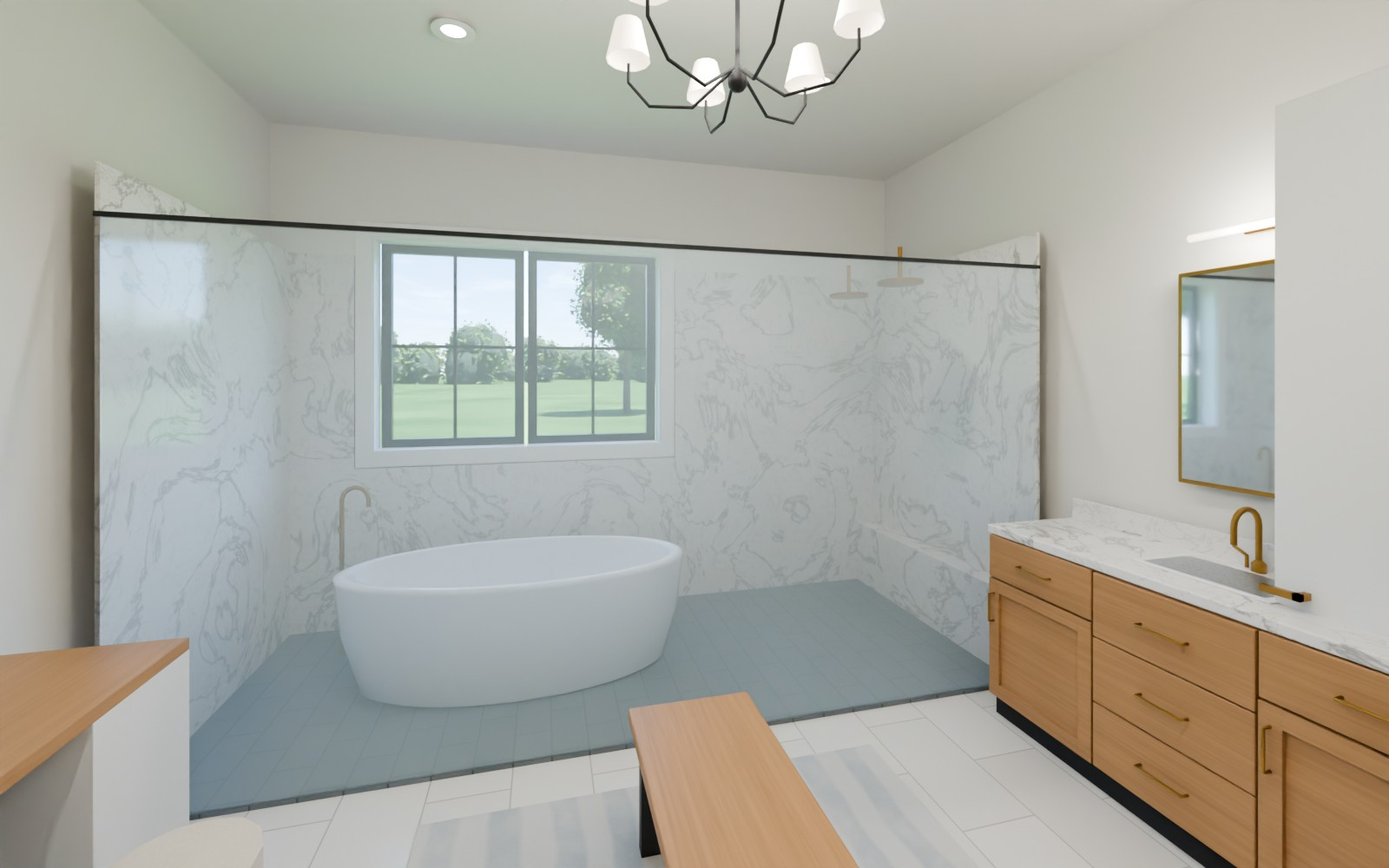
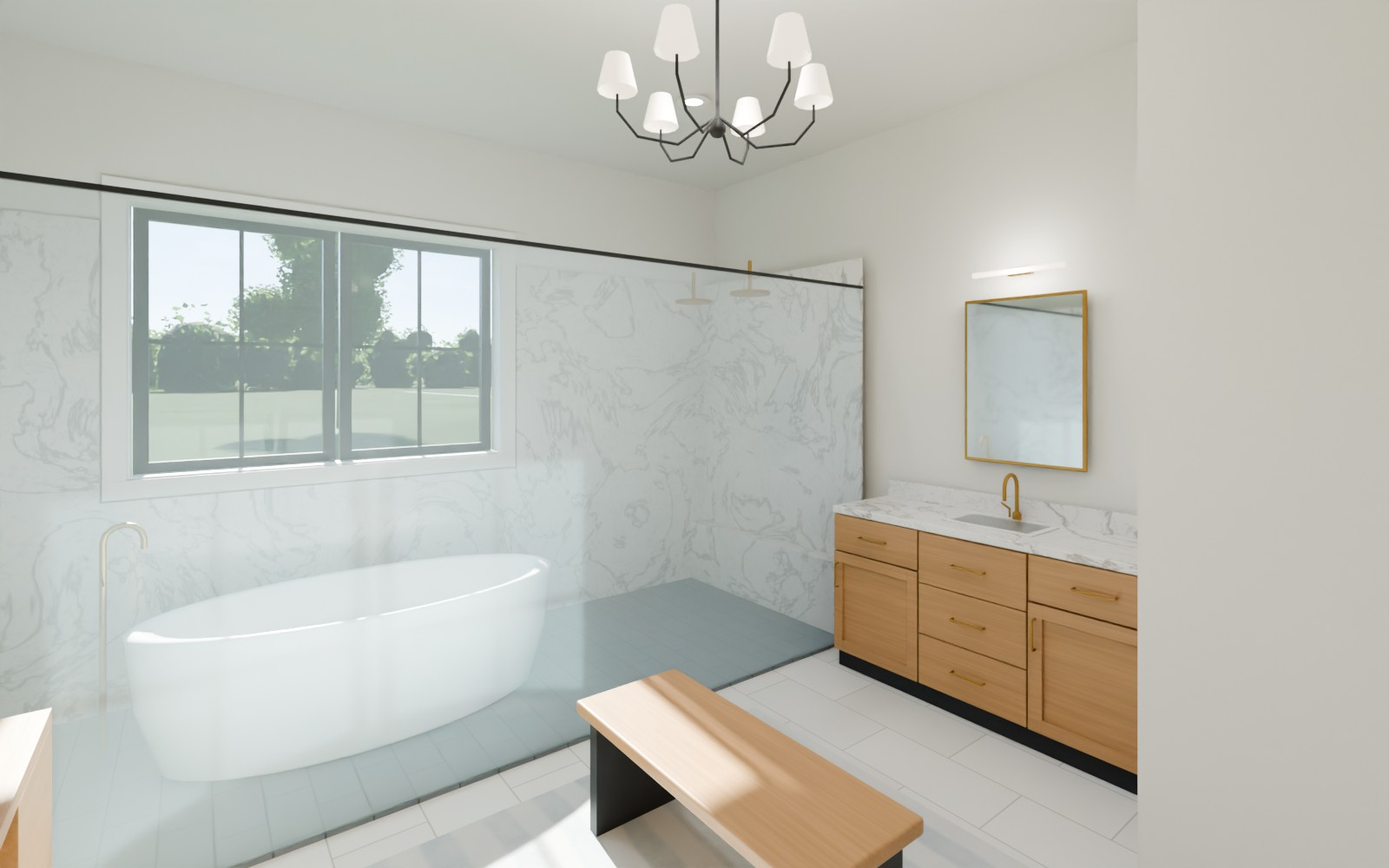
The Lookout 3500 2.0: bath
The Lookout 3500 2.0 page: a picture redone.

- Primary bath redone: the vanity in six finishes (oak, white, navy, sage, black, walnut) and the wet room's walls in five (slab marble, white subway, sage zellige, charcoal slate, limestone), each with the counter, floor tile, hardware and crown molding of choice; cased window, afternoon sun.

Claude-Session: https://claude.ai/code/session_01LcUu1yMTHs7qUW5E51HSvp

diff --git a/lookout/site.js b/lookout/site.js
@@ -1,1 +1,1 @@
-window.SJ={"name":"The Lookout 3500 2.0","slug":"the-lookout-3500-2","tag":"One-and-a-half-story plan","sub":"Four bedrooms and three and a half baths in 3,760 square feet, with the primary suite on the main level, a lookout room on the roof and a three-car garage.","stats":[["3,760","sq ft finished"],["4","bedrooms"],["3.5","baths"],["3","car garage"],["Main-level","primary suite"],["14 x 16","lookout room"]],"hero":{"day":"img/hero-day.jpg","night":""},"views":[{"id":"hero","name":"Front","kind":"ext","keys":["fas","fdc","g","gdc","lk","prf","rof","sid","trm","win"]},{"id":"yard","name":"Back yard","kind":"ext","keys":["fas","g","lk","pl","prf","pst","rof","sid","trm","win"]},{"id":"great","name":"Living room","kind":"int","keys":["bi","clg","cr","flr","fp","hwc","idc","ids","wal","win"]},{"id":"kitchen","name":"Kitchen","kind":"int","keys":["bsp","cab","ctr","flr","hwc","isl","wal","win"]},{"id":"dining","name":"Dining room","kind":"int","keys":["flr","wal","win"]},{"id":"foyer","name":"Foyer","kind":"int","keys":["cr","fd","fdc","flr","hwc","sf","sr","wal","win"]},{"id":"primary","name":"Primary bedroom","kind":"int","keys":["flr","hwc","wal","win"]},{"id":"bath","name":"Primary bath","kind":"int","keys":["btl","ctr","hwc","wal","win"]},{"id":"loft","name":"Upstairs loft","kind":"int","keys":["wal","win"]},{"id":"lookout","name":"Lookout room","kind":"int","keys":["sf","sr","wal","win"],"veil":{"when":{"lk":"0"},"keys":["sf","sr","wal","win"],"note":"Shows in this picture when the lookout room is chosen"}},{"id":"bed2","name":"Bedroom 2","kind":"int","keys":["cpt","uf","wal","win"]},{"id":"bed4","name":"Bedroom 4","kind":"int","keys":["cpt","hwc","idc","uf","wal","win"]},{"id":"lounge","name":"Lower level lounge","kind":"int","keys":["b","cab","ctr","hwc","isl","wal"],"veil":{"when":{"b":"u"},"keys":["cab","ctr","hwc","isl","wal"],"note":"Shows in this picture once the lower level is finished"}},{"id":"bar","name":"Lower level bar","kind":"int","keys":["b","ctr","hwc","isl","wal"],"veil":{"when":{"b":"u"},"keys":["ctr","hwc","isl","wal"],"note":"Shows in this picture once the lower level is finished"}}],"baths":[],"bathkeys":[],"opts":[{"key":"lk","name":"Lookout room","cat":"ext","ch":[{"id":"1","name":"Lookout room on the roof (as drawn)"},{"id":"0","name":"No lookout"}],"note":"The lookout room sits on the roof, 14 x 16 ft with windows all around, reached by its own stair."},{"key":"g","name":"Garage entry","cat":"ext","ch":[{"id":"f","name":"Front entry (as drawn)"},{"id":"s","name":"Side entry, with a motor court"}],"note":"Side entry: the garage wing is re-proportioned and its doors face a motor court at the side; windows take their place on the front."},{"key":"pl","name":"Pool","cat":"ext","ch":[{"id":"n","name":"No pool (as drawn)"},{"id":"1","name":"Lap pool, 10 x 45 ft"},{"id":"2","name":"Plunge pool with a raised spa"},{"id":"3","name":"Courtyard pool with a shade pavilion"}],"note":"The pools sit behind the covered deck, on a paved terrace one step above the lawn."},{"key":"sid","name":"Siding colour","cat":"ext","ch":[{"id":"white","name":"Chantilly White","css":"#F1EFE8"},{"id":"cream","name":"Warm Cream","css":"#E6DCC6"},{"id":"greige","name":"Pebble Greige","css":"#B9B2A3"},{"id":"sage","name":"Sage","css":"#8E9A86"},{"id":"blue","name":"Harbor Blue","css":"#5E768A"},{"id":"navy","name":"Midnight Navy","css":"#28364A"},{"id":"iron","name":"Iron Gray","css":"#45484A"},{"id":"black","name":"Tricorn Black","css":"#222325"}]},{"key":"trm","name":"Trim and corner boards","cat":"ext","ch":[{"id":"white","name":"White","css":"#F4F2EC"},{"id":"cream","name":"Cream","css":"#E9E1CF"},{"id":"black","name":"Black","css":"#1E1F21"},{"id":"bronze","name":"Dark Bronze","css":"#3A322B"}]},{"key":"rof","name":"Roof shingles","cat":"ext","ch":[{"id":"char","name":"Charcoal","css":"linear-gradient(180deg,#33353A 0 50%,#45474C 50%)"},{"id":"onyx","name":"Onyx Black","css":"linear-gradient(180deg,#1D1E21 0 50%,#2A2B2F 50%)"},{"id":"wood","name":"Weathered Wood","css":"linear-gradient(180deg,#5E554B 0 50%,#7A6F62 50%)"},{"id":"slate","name":"Slate Gray","css":"linear-gradient(180deg,#4D5560 0 50%,#69717C 50%)"},{"id":"brown","name":"Barkwood","css":"linear-gradient(180deg,#41342B 0 50%,#5B4A3D 50%)"}]},{"key":"prf","name":"Porch, lookout and accent roofs","cat":"ext","ch":[{"id":"metal","name":"Black standing seam","css":"repeating-linear-gradient(90deg,#1b1c1f 0 7px,#34363a 7px 9px)"},{"id":"copper","name":"Copper standing seam","css":"repeating-linear-gradient(90deg,#9A5A34 0 7px,#c07c4c 7px 9px)"},{"id":"match","name":"Shingles to match","css":"repeating-linear-gradient(0deg,#2a2b2f 0 5px,#1d1e21 5px 10px)"}]},{"key":"fas","name":"Gutters and downspouts","cat":"ext","ch":[{"id":"white","name":"White","css":"#F2F0EA"},{"id":"black","name":"Black","css":"#1B1C1E"},{"id":"bronze","name":"Dark Bronze","css":"#3A322B"}]},{"key":"win","name":"Window frames","cat":"ext","ch":[{"id":"black","name":"Black","css":"#18191B"},{"id":"white","name":"White","css":"#F0EEE8"},{"id":"bronze","name":"Bronze","css":"#3B3129"},{"id":"clay","name":"Clay","css":"#A89F8E"}]},{"key":"fd","name":"Front door","cat":"ext","ch":[{"id":"g","name":"Double doors, glass over a panel"},{"id":"s","name":"Steel-look glass double doors"},{"id":"c","name":"Craftsman door with sidelights"},{"id":"p","name":"Panelled double doors"}],"note":"Every design comes with a transom over the door; its colour is the next choice."},{"key":"fdc","name":"Front door colour","cat":"ext","ch":[{"id":"wood","name":"Stained Walnut","css":"linear-gradient(135deg,#6A4226,#4A2C18)"},{"id":"black","name":"Black","css":"#161719"},{"id":"navy","name":"Navy","css":"#22324A"},{"id":"red","name":"Barn Red","css":"#6E1F1B"},{"id":"teal","name":"Deep Teal","css":"#1F4A4C"},{"id":"sage","name":"Sage","css":"#7C8A74"},{"id":"white","name":"White","css":"#F0EEE8"}]},{"key":"gdc","name":"Garage door colour","cat":"ext","ch":[{"id":"white","name":"White","css":"#EFEDE7"},{"id":"black","name":"Black","css":"#18191B"},{"id":"iron","name":"Iron Gray","css":"#4A4C4E"},{"id":"bronze","name":"Bronze","css":"#3B3129"},{"id":"wood","name":"Walnut","css":"linear-gradient(135deg,#6A4226,#4A2C18)"}]},{"key":"pst","name":"Porch posts and beams","cat":"ext","ch":[{"id":"cedar","name":"Stained cedar","css":"linear-gradient(135deg,#96663A,#774E28)"},{"id":"white","name":"White","css":"#EFEDE7"},{"id":"black","name":"Black","css":"#1F2022"}]},{"key":"b","name":"Lower level","cat":"int","ch":[{"id":"u","name":"Unfinished (as drawn)"},{"id":"f","name":"Finished"}]},{"key":"clg","name":"Living room ceiling","cat":"int","ch":[{"id":"c","name":"Coffered, painted"},{"id":"o","name":"Coffered, oak beams"},{"id":"b","name":"Timber beams"},{"id":"t","name":"Tray ceiling"}],"note":"Coffers: nine panels framed by beams, centred on the fireplace, with a ring chandelier in the middle."},{"key":"cr","name":"Crown molding","cat":"int","ch":[{"id":"n","name":"None"},{"id":"c","name":"Classic crown, 5 1/4 in."},{"id":"f","name":"Craftsman, flat with a cap"}],"note":"Runs on every wall that meets a flat ceiling: the main level, upstairs, the lookout room and the loft over the closet."},{"key":"fp","name":"Fireplace","cat":"int","ch":[{"id":"stone","name":"Stacked stone (as drawn)","css":"repeating-linear-gradient(0deg,#8f887c 0 4px,#6f695f 4px 5px)"},{"id":"white","name":"White stacked stone","css":"repeating-linear-gradient(0deg,#E9E6DF 0 4px,#c4c0b7 4px 5px)"},{"id":"brick","name":"Red brick","css":"repeating-linear-gradient(0deg,#8E4A36 0 5px,#B9B2A6 5px 6px)"},{"id":"wbrick","name":"White painted brick","css":"repeating-linear-gradient(0deg,#EDEAE3 0 5px,#cfcbc2 5px 6px)"},{"id":"slate","name":"Charcoal slate tile","css":"repeating-linear-gradient(90deg,#3B3D40 0 12px,#1F2022 12px 13px)"}]},{"key":"bi","name":"Fireplace built-ins","cat":"int","ch":[{"id":"c","name":"Cabinets with oak tops (as drawn)"},{"id":"s","name":"Cabinets and shelves to the ceiling"},{"id":"n","name":"None"}],"note":"The built-ins stand on both sides of the fireplace."},{"key":"ids","name":"Interior door style","cat":"int","ch":[{"id":"s","name":"Two-panel Shaker"},{"id":"f","name":"Five-panel"},{"id":"c","name":"Craftsman, three-panel"}],"note":"8 ft doors on the main level, 6 ft 8 in. upstairs; every opening is cased, with a cap over the head."},{"key":"idc","name":"Interior doors","cat":"int","ch":[{"id":"white","name":"White","css":"#F2F0EA"},{"id":"black","name":"Black","css":"#1E1F21"},{"id":"grey","name":"Gray","css":"#8F9190"},{"id":"oak","name":"Natural oak","css":"linear-gradient(135deg,#B9905E,#A67C4C)"}]},{"key":"sf","name":"Stair treads and handrails","cat":"int","ch":[{"id":"o","name":"Natural oak (as drawn)","css":"linear-gradient(135deg,#B9905E,#A67C4C)"},{"id":"d","name":"Walnut","css":"linear-gradient(135deg,#6A4A32,#573B27)"},{"id":"k","name":"Ebony","css":"linear-gradient(135deg,#30261F,#211A15)"},{"id":"w","name":"Whitewashed oak","css":"linear-gradient(135deg,#D9CDB8,#C9BCA4)"}]},{"key":"sr","name":"Stair balusters","cat":"int","ch":[{"id":"k","name":"Black iron","css":"#141414"},{"id":"w","name":"White","css":"#EFEDE7"},{"id":"b","name":"Satin brass","css":"#B08A4A"}]},{"key":"flr","name":"Hardwood flooring","cat":"int","ch":[{"id":"oak","name":"Natural Oak Plank","css":"repeating-linear-gradient(90deg,#B08F68 0 9px,#9C7B55 9px 18px)"},{"id":"honey","name":"Honey Oak","css":"repeating-linear-gradient(90deg,#B8834A 0 9px,#A2703C 9px 18px)"},{"id":"grey","name":"Driftwood Gray","css":"repeating-linear-gradient(90deg,#9A9288 0 9px,#857D73 9px 18px)"},{"id":"walnut","name":"Walnut","css":"repeating-linear-gradient(90deg,#6A4A32 0 9px,#573B27 9px 18px)"},{"id":"white","name":"Whitewashed","css":"repeating-linear-gradient(90deg,#CFC3B0 0 9px,#BFB29E 9px 18px)"}]},{"key":"uf","name":"Bedroom flooring","cat":"int","ch":[{"id":"c","name":"Carpet (as shown)","css":"repeating-linear-gradient(45deg,#C9C0AE 0 3px,#BDB4A2 3px 6px)"},{"id":"oak","name":"Natural Oak Plank","css":"repeating-linear-gradient(90deg,#B08F68 0 9px,#9C7B55 9px 18px)"},{"id":"honey","name":"Honey Oak","css":"repeating-linear-gradient(90deg,#B8834A 0 9px,#A2703C 9px 18px)"},{"id":"grey","name":"Driftwood Gray","css":"repeating-linear-gradient(90deg,#9A9288 0 9px,#857D73 9px 18px)"},{"id":"walnut","name":"Walnut","css":"repeating-linear-gradient(90deg,#6A4A32 0 9px,#573B27 9px 18px)"},{"id":"white","name":"Whitewashed","css":"repeating-linear-gradient(90deg,#CFC3B0 0 9px,#BFB29E 9px 18px)"}]},{"key":"cpt","name":"Carpet","cat":"int","ch":[{"id":"oat","name":"Oatmeal","css":"#C9C0AE"},{"id":"grey","name":"Silver","css":"#B5B3AE"},{"id":"taupe","name":"Taupe","css":"#A39685"}],"only":{"uf":"c"}},{"key":"wal","name":"Wall paint","cat":"int","ch":[{"id":"alab","name":"Alabaster","css":"#EDEAE0"},{"id":"grey","name":"Agreeable Gray","css":"#D1CBC1"},{"id":"greige","name":"Accessible Beige","css":"#D1C7B8"},{"id":"blue","name":"Sea Salt","css":"#CDD2CA"},{"id":"white","name":"Pure White","css":"#F2F0EB"}]},{"key":"cab","name":"Kitchen cabinets","cat":"int","ch":[{"id":"white","name":"White Shaker","css":"#EFEDE7"},{"id":"grey","name":"Dove Gray","css":"#A9ABA8"},{"id":"sage","name":"Sage","css":"#8A967F"},{"id":"navy","name":"Navy","css":"#27364B"},{"id":"black","name":"Black","css":"#1F2022"},{"id":"oak","name":"Natural Oak","css":"linear-gradient(135deg,#B9905E,#A67C4C)"}]},{"key":"isl","name":"Island and range hood","cat":"int","ch":[{"id":"navy","name":"Navy","css":"#27364B"},{"id":"white","name":"White","css":"#EFEDE7"},{"id":"oak","name":"Natural Oak","css":"linear-gradient(135deg,#B9905E,#A67C4C)"},{"id":"black","name":"Black","css":"#1F2022"},{"id":"sage","name":"Sage","css":"#8A967F"}]},{"key":"ctr","name":"Countertops","cat":"int","ch":[{"id":"white","name":"White Quartz","css":"#EEEBE4"},{"id":"marble","name":"Marble-look Quartz","css":"linear-gradient(120deg,#ECE9E3 0 40%,#b9b6ae 44%,#ECE9E3 48% 70%,#c9c6be 74%,#ECE9E3 78%)"},{"id":"black","name":"Black Granite","css":"linear-gradient(120deg,#17181A 0 55%,#4a4a48 60%,#17181A 65%)"},{"id":"grey","name":"Concrete Gray","css":"#9A9894"}]},{"key":"bsp","name":"Backsplash","cat":"int","ch":[{"id":"slab","name":"Marble slab","css":"linear-gradient(120deg,#ECE9E3 0 40%,#b9b6ae 44%,#ECE9E3 48% 70%,#c9c6be 74%,#ECE9E3 78%)"},{"id":"subway","name":"White Subway","css":"repeating-linear-gradient(0deg,#F0EEE8 0 8px,#cfccc4 8px 9px)"},{"id":"green","name":"Sage Zellige","css":"repeating-linear-gradient(0deg,#8FA08A 0 8px,#6f806a 8px 9px)"},{"id":"grey","name":"Gray Subway","css":"repeating-linear-gradient(0deg,#B4B6B4 0 8px,#8f918f 8px 9px)"},{"id":"black","name":"Black Subway","css":"repeating-linear-gradient(0deg,#232426 0 8px,#6A6A68 8px 9px)"}]},{"key":"btl","name":"Bath floor tile","cat":"int","ch":[{"id":"w","name":"White porcelain","css":"repeating-linear-gradient(90deg,#EDEBE6 0 12px,#B9B6AE 12px 13px)"},{"id":"g","name":"Warm gray","css":"repeating-linear-gradient(90deg,#B9B2A6 0 12px,#8C867B 12px 13px)"},{"id":"m","name":"Marble look","css":"linear-gradient(120deg,#ECEAE6 0 40%,#c4c1bb 46%,#ECEAE6 52%)"},{"id":"c","name":"Charcoal slate","css":"repeating-linear-gradient(90deg,#4A4C4F 0 12px,#2C2D2F 12px 13px)"}]},{"key":"hwc","name":"Hardware and faucets","cat":"int","ch":[{"id":"brass","name":"Satin Brass","css":"#B08A4A"},{"id":"black","name":"Matte Black","css":"#101011"},{"id":"nickel","name":"Satin Nickel","css":"#9A9A98"}]}],"defaults":{"sid":"white","trm":"white","fas":"white","win":"black","fdc":"wood","gdc":"white","rof":"char","prf":"metal","lk":"1","g":"f","b":"u","pl":"n","fd":"g","pst":"cedar","clg":"c","cr":"n","fp":"stone","bi":"c","sf":"o","sr":"k","idc":"white","ids":"s","lof":"o","hwc":"brass","wal":"alab","cab":"white","isl":"navy","ctr":"marble","bsp":"slab","vcab":"oak","shw":"slab","btl":"w","flr":"oak","cpt":"oat","uf":"c"},"gallery":[],"looks":[{"cat":"ext","name":"Modern farmhouse (as drawn)","set":{}},{"cat":"ext","name":"Midnight and copper","set":{"sid":"navy","prf":"copper","gdc":"wood","rof":"onyx"}},{"cat":"ext","name":"Sage cottage","set":{"sid":"sage","trm":"cream","fas":"bronze","win":"white","rof":"wood","fdc":"navy","fd":"c"}},{"cat":"ext","name":"Charcoal modern","set":{"sid":"iron","trm":"black","fas":"black","rof":"onyx","gdc":"black","fdc":"black","fd":"s"}},{"cat":"ext","name":"Coastal blue","set":{"sid":"blue","win":"white","rof":"slate","fdc":"navy"}},{"cat":"ext","name":"Warm greige","set":{"sid":"greige","trm":"cream","fas":"bronze","win":"bronze","rof":"brown","gdc":"bronze","fd":"p"}},{"cat":"ext","name":"Black barn","set":{"sid":"black","trm":"black","fas":"black","gdc":"wood","prf":"copper","fd":"p"}},{"cat":"int","name":"Light and warm (as shown)","set":{}},{"cat":"int","name":"Warm oak","set":{"isl":"oak","ctr":"marble","flr":"honey","wal":"greige","clg":"o","cr":"f","ids":"c"}},{"cat":"int","name":"Deep and moody","set":{"cab":"navy","bsp":"grey","flr":"walnut","wal":"grey","idc":"black","clg":"b","cr":"c"}},{"cat":"int","name":"Scandinavian","set":{"isl":"white","flr":"white","wal":"white","hwc":"black","clg":"t","ids":"f"}},{"cat":"int","name":"Sage kitchen","set":{"cab":"sage","isl":"oak","bsp":"green"}},{"cat":"int","name":"Black and white","set":{"cab":"black","isl":"white","ctr":"marble","flr":"grey","wal":"white","hwc":"nickel","idc":"black","ids":"c","cr":"c"}},{"cat":"int","name":"Everything added","set":{"cr":"c","clg":"o","bi":"s","ids":"c","b":"f"}}],"plan_lead":"Each level seen from straight above, with everything over it taken away. Furniture is illustrative.","plans":[{"id":"main_f","name":"Main level","note":"2,144 sq ft: living, dining and kitchen in the core, the primary suite in its own wing, a three-car garage","svg":"<img src=\"img/plan-main_f.jpg\" alt=\"Main level, seen from above with the levels over it taken away\" style=\"width:100%;height:auto;display:block;border-radius:10px\">"},{"id":"main_s","name":"Main level, side-entry garage","note":"The same rooms; the garage wing is re-proportioned and entered from a motor court at the side","svg":"<img src=\"img/plan-main_s.jpg\" alt=\"Main level, side-entry garage, seen from above with the levels over it taken away\" style=\"width:100%;height:auto;display:block;border-radius:10px\">"},{"id":"upper","name":"Upstairs","note":"1,224 sq ft: three bedrooms, two baths, the loft and a laundry; the office loft sits over the primary closet","svg":"<img src=\"img/plan-upper.jpg\" alt=\"Upstairs, seen from above with the levels over it taken away\" style=\"width:100%;height:auto;display:block;border-radius:10px\">"},{"id":"look","name":"Lookout","note":"224 sq ft: the lookout room on the roof, windows on all four sides","svg":"<img src=\"img/plan-look.jpg\" alt=\"Lookout, seen from above with the levels over it taken away\" style=\"width:100%;height:auto;display:block;border-radius:10px\">"},{"id":"bsmt_u","name":"Lower level","note":"Unfinished, as drawn: a safe room, mechanical space and rough-ins for a bath and a wet bar","svg":"<img src=\"img/plan-bsmt_u.jpg\" alt=\"Lower level, seen from above with the levels over it taken away\" style=\"width:100%;height:auto;display:block;border-radius:10px\">"},{"id":"bsmt_f","name":"Lower level, finished","note":"Lounge, bar, gym, bath and sauna, with the safe room, storage and mechanical space","svg":"<img src=\"img/plan-bsmt_f.jpg\" alt=\"Lower level, finished, seen from above with the levels over it taken away\" style=\"width:100%;height:auto;display:block;border-radius:10px\">"}],"lot":null,"specs":[{"h":"The home","items":["3,760 sq ft finished: 2,144 on the main level, 1,224 upstairs, a 168 sq ft office loft and the 224 sq ft lookout room","Four bedrooms and three and a half baths; the primary suite is on the main level in its own wing","The primary suite: a 20 x 20 bedroom with a door to the covered deck, a spa bath and a walk-in closet, about 800 sq ft in all","Three-car garage in a wing of its own, front entry or side entry","Core 34 x 36 ft, two stories; the garage wing 32 x 24 ft and the primary wing 20 x 46 ft are one story"]},{"h":"Rooms","items":["Main level: foyer, dining room, living room with a fireplace and a 12 ft slider to the covered deck, kitchen with a prep kitchen and pantry, mudroom, powder room, laundry","Upstairs: three bedrooms, two baths, a loft, a second laundry","An office loft over the primary closet, reached by its own spiral stair","The lookout room: 14 x 16 ft on the roof, windows on all four sides"]},{"h":"Heights and roof","items":["10 ft ceilings on the main level","Gable roofs with standing-seam accents over the porch, the lookout and the garage doors","Covered 16 x 14 ft deck off the living room; covered front porch on timber posts"]},{"h":"Inside finish","items":["Living room ceiling: nine coffers centred on the fireplace with a ring chandelier, painted or in oak; timber beams or a tray ceiling instead","Doors: 8 ft on the main level and 6 ft 8 in. upstairs, in three panel styles, every opening cased with a cap over the head","Crown molding as a choice on the main and upper levels, classic or craftsman","Front door in four designs under a transom: glass over a panel, steel-look glass, craftsman with sidelights, or panelled","Baths: vanity cabinets and shower walls chosen apart from the kitchen","The loft over the primary closet as a home office, a library or a retreat"]},{"h":"Outside","items":["Board-and-batten siding with trim boards at corners and openings","Black-framed windows with grids","A full basement under the core"]}],"foot":["The pictures and the design studio on this page are computer renderings of a 3D model of the plan. Furniture, planting and the land around the house are illustrative; the plan is not drawn on a particular lot.","Finishes offered in the design studio are examples for planning, not a builder's price list. A builder's plan set and contract govern."],"tour":null,"model3d":{"src":"3d/","poster":"img/hero-day.jpg"}};
+window.SJ={"name":"The Lookout 3500 2.0","slug":"the-lookout-3500-2","tag":"One-and-a-half-story plan","sub":"Four bedrooms and three and a half baths in 3,760 square feet, with the primary suite on the main level, a lookout room on the roof and a three-car garage.","stats":[["3,760","sq ft finished"],["4","bedrooms"],["3.5","baths"],["3","car garage"],["Main-level","primary suite"],["14 x 16","lookout room"]],"hero":{"day":"img/hero-day.jpg","night":""},"views":[{"id":"hero","name":"Front","kind":"ext","keys":["fas","fdc","g","gdc","lk","prf","rof","sid","trm","win"]},{"id":"yard","name":"Back yard","kind":"ext","keys":["fas","g","lk","pl","prf","pst","rof","sid","trm","win"]},{"id":"great","name":"Living room","kind":"int","keys":["bi","clg","cr","flr","fp","hwc","idc","ids","wal","win"]},{"id":"kitchen","name":"Kitchen","kind":"int","keys":["bsp","cab","ctr","flr","hwc","isl","wal","win"]},{"id":"dining","name":"Dining room","kind":"int","keys":["flr","wal","win"]},{"id":"foyer","name":"Foyer","kind":"int","keys":["cr","fd","fdc","flr","hwc","sf","sr","wal","win"]},{"id":"primary","name":"Primary bedroom","kind":"int","keys":["flr","hwc","wal","win"]},{"id":"bath","name":"Primary bath","kind":"int","keys":["btl","cr","ctr","hwc","shw","vcab","wal","win"]},{"id":"loft","name":"Upstairs loft","kind":"int","keys":["wal","win"]},{"id":"lookout","name":"Lookout room","kind":"int","keys":["sf","sr","wal","win"],"veil":{"when":{"lk":"0"},"keys":["sf","sr","wal","win"],"note":"Shows in this picture when the lookout room is chosen"}},{"id":"bed2","name":"Bedroom 2","kind":"int","keys":["cpt","uf","wal","win"]},{"id":"bed4","name":"Bedroom 4","kind":"int","keys":["cpt","hwc","idc","uf","wal","win"]},{"id":"lounge","name":"Lower level lounge","kind":"int","keys":["b","cab","ctr","hwc","isl","wal"],"veil":{"when":{"b":"u"},"keys":["cab","ctr","hwc","isl","wal"],"note":"Shows in this picture once the lower level is finished"}},{"id":"bar","name":"Lower level bar","kind":"int","keys":["b","ctr","hwc","isl","wal"],"veil":{"when":{"b":"u"},"keys":["ctr","hwc","isl","wal"],"note":"Shows in this picture once the lower level is finished"}}],"baths":[],"bathkeys":[],"opts":[{"key":"lk","name":"Lookout room","cat":"ext","ch":[{"id":"1","name":"Lookout room on the roof (as drawn)"},{"id":"0","name":"No lookout"}],"note":"The lookout room sits on the roof, 14 x 16 ft with windows all around, reached by its own stair."},{"key":"g","name":"Garage entry","cat":"ext","ch":[{"id":"f","name":"Front entry (as drawn)"},{"id":"s","name":"Side entry, with a motor court"}],"note":"Side entry: the garage wing is re-proportioned and its doors face a motor court at the side; windows take their place on the front."},{"key":"pl","name":"Pool","cat":"ext","ch":[{"id":"n","name":"No pool (as drawn)"},{"id":"1","name":"Lap pool, 10 x 45 ft"},{"id":"2","name":"Plunge pool with a raised spa"},{"id":"3","name":"Courtyard pool with a shade pavilion"}],"note":"The pools sit behind the covered deck, on a paved terrace one step above the lawn."},{"key":"sid","name":"Siding colour","cat":"ext","ch":[{"id":"white","name":"Chantilly White","css":"#F1EFE8"},{"id":"cream","name":"Warm Cream","css":"#E6DCC6"},{"id":"greige","name":"Pebble Greige","css":"#B9B2A3"},{"id":"sage","name":"Sage","css":"#8E9A86"},{"id":"blue","name":"Harbor Blue","css":"#5E768A"},{"id":"navy","name":"Midnight Navy","css":"#28364A"},{"id":"iron","name":"Iron Gray","css":"#45484A"},{"id":"black","name":"Tricorn Black","css":"#222325"}]},{"key":"trm","name":"Trim and corner boards","cat":"ext","ch":[{"id":"white","name":"White","css":"#F4F2EC"},{"id":"cream","name":"Cream","css":"#E9E1CF"},{"id":"black","name":"Black","css":"#1E1F21"},{"id":"bronze","name":"Dark Bronze","css":"#3A322B"}]},{"key":"rof","name":"Roof shingles","cat":"ext","ch":[{"id":"char","name":"Charcoal","css":"linear-gradient(180deg,#33353A 0 50%,#45474C 50%)"},{"id":"onyx","name":"Onyx Black","css":"linear-gradient(180deg,#1D1E21 0 50%,#2A2B2F 50%)"},{"id":"wood","name":"Weathered Wood","css":"linear-gradient(180deg,#5E554B 0 50%,#7A6F62 50%)"},{"id":"slate","name":"Slate Gray","css":"linear-gradient(180deg,#4D5560 0 50%,#69717C 50%)"},{"id":"brown","name":"Barkwood","css":"linear-gradient(180deg,#41342B 0 50%,#5B4A3D 50%)"}]},{"key":"prf","name":"Porch, lookout and accent roofs","cat":"ext","ch":[{"id":"metal","name":"Black standing seam","css":"repeating-linear-gradient(90deg,#1b1c1f 0 7px,#34363a 7px 9px)"},{"id":"copper","name":"Copper standing seam","css":"repeating-linear-gradient(90deg,#9A5A34 0 7px,#c07c4c 7px 9px)"},{"id":"match","name":"Shingles to match","css":"repeating-linear-gradient(0deg,#2a2b2f 0 5px,#1d1e21 5px 10px)"}]},{"key":"fas","name":"Gutters and downspouts","cat":"ext","ch":[{"id":"white","name":"White","css":"#F2F0EA"},{"id":"black","name":"Black","css":"#1B1C1E"},{"id":"bronze","name":"Dark Bronze","css":"#3A322B"}]},{"key":"win","name":"Window frames","cat":"ext","ch":[{"id":"black","name":"Black","css":"#18191B"},{"id":"white","name":"White","css":"#F0EEE8"},{"id":"bronze","name":"Bronze","css":"#3B3129"},{"id":"clay","name":"Clay","css":"#A89F8E"}]},{"key":"fd","name":"Front door","cat":"ext","ch":[{"id":"g","name":"Double doors, glass over a panel"},{"id":"s","name":"Steel-look glass double doors"},{"id":"c","name":"Craftsman door with sidelights"},{"id":"p","name":"Panelled double doors"}],"note":"Every design comes with a transom over the door; its colour is the next choice."},{"key":"fdc","name":"Front door colour","cat":"ext","ch":[{"id":"wood","name":"Stained Walnut","css":"linear-gradient(135deg,#6A4226,#4A2C18)"},{"id":"black","name":"Black","css":"#161719"},{"id":"navy","name":"Navy","css":"#22324A"},{"id":"red","name":"Barn Red","css":"#6E1F1B"},{"id":"teal","name":"Deep Teal","css":"#1F4A4C"},{"id":"sage","name":"Sage","css":"#7C8A74"},{"id":"white","name":"White","css":"#F0EEE8"}]},{"key":"gdc","name":"Garage door colour","cat":"ext","ch":[{"id":"white","name":"White","css":"#EFEDE7"},{"id":"black","name":"Black","css":"#18191B"},{"id":"iron","name":"Iron Gray","css":"#4A4C4E"},{"id":"bronze","name":"Bronze","css":"#3B3129"},{"id":"wood","name":"Walnut","css":"linear-gradient(135deg,#6A4226,#4A2C18)"}]},{"key":"pst","name":"Porch posts and beams","cat":"ext","ch":[{"id":"cedar","name":"Stained cedar","css":"linear-gradient(135deg,#96663A,#774E28)"},{"id":"white","name":"White","css":"#EFEDE7"},{"id":"black","name":"Black","css":"#1F2022"}]},{"key":"b","name":"Lower level","cat":"int","ch":[{"id":"u","name":"Unfinished (as drawn)"},{"id":"f","name":"Finished"}]},{"key":"clg","name":"Living room ceiling","cat":"int","ch":[{"id":"c","name":"Coffered, painted"},{"id":"o","name":"Coffered, oak beams"},{"id":"b","name":"Timber beams"},{"id":"t","name":"Tray ceiling"}],"note":"Coffers: nine panels framed by beams, centred on the fireplace, with a ring chandelier in the middle."},{"key":"cr","name":"Crown molding","cat":"int","ch":[{"id":"n","name":"None"},{"id":"c","name":"Classic crown, 5 1/4 in."},{"id":"f","name":"Craftsman, flat with a cap"}],"note":"Runs on every wall that meets a flat ceiling: the main level, upstairs, the lookout room, the loft over the closet and the finished lower level."},{"key":"fp","name":"Fireplace","cat":"int","ch":[{"id":"stone","name":"Stacked stone (as drawn)","css":"repeating-linear-gradient(0deg,#8f887c 0 4px,#6f695f 4px 5px)"},{"id":"white","name":"White stacked stone","css":"repeating-linear-gradient(0deg,#E9E6DF 0 4px,#c4c0b7 4px 5px)"},{"id":"brick","name":"Red brick","css":"repeating-linear-gradient(0deg,#8E4A36 0 5px,#B9B2A6 5px 6px)"},{"id":"wbrick","name":"White painted brick","css":"repeating-linear-gradient(0deg,#EDEAE3 0 5px,#cfcbc2 5px 6px)"},{"id":"slate","name":"Charcoal slate tile","css":"repeating-linear-gradient(90deg,#3B3D40 0 12px,#1F2022 12px 13px)"}]},{"key":"bi","name":"Fireplace built-ins","cat":"int","ch":[{"id":"c","name":"Cabinets with oak tops (as drawn)"},{"id":"s","name":"Cabinets and shelves to the ceiling"},{"id":"n","name":"None"}],"note":"The built-ins stand on both sides of the fireplace."},{"key":"ids","name":"Interior door style","cat":"int","ch":[{"id":"s","name":"Two-panel Shaker"},{"id":"f","name":"Five-panel"},{"id":"c","name":"Craftsman, three-panel"}],"note":"8 ft doors on the main level, 6 ft 8 in. upstairs; every opening is cased, with a cap over the head."},{"key":"idc","name":"Interior doors","cat":"int","ch":[{"id":"white","name":"White","css":"#F2F0EA"},{"id":"black","name":"Black","css":"#1E1F21"},{"id":"grey","name":"Gray","css":"#8F9190"},{"id":"oak","name":"Natural oak","css":"linear-gradient(135deg,#B9905E,#A67C4C)"}]},{"key":"sf","name":"Stair treads and handrails","cat":"int","ch":[{"id":"o","name":"Natural oak (as drawn)","css":"linear-gradient(135deg,#B9905E,#A67C4C)"},{"id":"d","name":"Walnut","css":"linear-gradient(135deg,#6A4A32,#573B27)"},{"id":"k","name":"Ebony","css":"linear-gradient(135deg,#30261F,#211A15)"},{"id":"w","name":"Whitewashed oak","css":"linear-gradient(135deg,#D9CDB8,#C9BCA4)"}]},{"key":"sr","name":"Stair balusters","cat":"int","ch":[{"id":"k","name":"Black iron","css":"#141414"},{"id":"w","name":"White","css":"#EFEDE7"},{"id":"b","name":"Satin brass","css":"#B08A4A"}]},{"key":"flr","name":"Hardwood flooring","cat":"int","ch":[{"id":"oak","name":"Natural Oak Plank","css":"repeating-linear-gradient(90deg,#B08F68 0 9px,#9C7B55 9px 18px)"},{"id":"honey","name":"Honey Oak","css":"repeating-linear-gradient(90deg,#B8834A 0 9px,#A2703C 9px 18px)"},{"id":"grey","name":"Driftwood Gray","css":"repeating-linear-gradient(90deg,#9A9288 0 9px,#857D73 9px 18px)"},{"id":"walnut","name":"Walnut","css":"repeating-linear-gradient(90deg,#6A4A32 0 9px,#573B27 9px 18px)"},{"id":"white","name":"Whitewashed","css":"repeating-linear-gradient(90deg,#CFC3B0 0 9px,#BFB29E 9px 18px)"}]},{"key":"uf","name":"Bedroom flooring","cat":"int","ch":[{"id":"c","name":"Carpet (as shown)","css":"repeating-linear-gradient(45deg,#C9C0AE 0 3px,#BDB4A2 3px 6px)"},{"id":"oak","name":"Natural Oak Plank","css":"repeating-linear-gradient(90deg,#B08F68 0 9px,#9C7B55 9px 18px)"},{"id":"honey","name":"Honey Oak","css":"repeating-linear-gradient(90deg,#B8834A 0 9px,#A2703C 9px 18px)"},{"id":"grey","name":"Driftwood Gray","css":"repeating-linear-gradient(90deg,#9A9288 0 9px,#857D73 9px 18px)"},{"id":"walnut","name":"Walnut","css":"repeating-linear-gradient(90deg,#6A4A32 0 9px,#573B27 9px 18px)"},{"id":"white","name":"Whitewashed","css":"repeating-linear-gradient(90deg,#CFC3B0 0 9px,#BFB29E 9px 18px)"}]},{"key":"cpt","name":"Carpet","cat":"int","ch":[{"id":"oat","name":"Oatmeal","css":"#C9C0AE"},{"id":"grey","name":"Silver","css":"#B5B3AE"},{"id":"taupe","name":"Taupe","css":"#A39685"}],"only":{"uf":"c"}},{"key":"wal","name":"Wall paint","cat":"int","ch":[{"id":"alab","name":"Alabaster","css":"#EDEAE0"},{"id":"grey","name":"Agreeable Gray","css":"#D1CBC1"},{"id":"greige","name":"Accessible Beige","css":"#D1C7B8"},{"id":"blue","name":"Sea Salt","css":"#CDD2CA"},{"id":"white","name":"Pure White","css":"#F2F0EB"}]},{"key":"cab","name":"Kitchen cabinets","cat":"int","ch":[{"id":"white","name":"White Shaker","css":"#EFEDE7"},{"id":"grey","name":"Dove Gray","css":"#A9ABA8"},{"id":"sage","name":"Sage","css":"#8A967F"},{"id":"navy","name":"Navy","css":"#27364B"},{"id":"black","name":"Black","css":"#1F2022"},{"id":"oak","name":"Natural Oak","css":"linear-gradient(135deg,#B9905E,#A67C4C)"}]},{"key":"isl","name":"Island and range hood","cat":"int","ch":[{"id":"navy","name":"Navy","css":"#27364B"},{"id":"white","name":"White","css":"#EFEDE7"},{"id":"oak","name":"Natural Oak","css":"linear-gradient(135deg,#B9905E,#A67C4C)"},{"id":"black","name":"Black","css":"#1F2022"},{"id":"sage","name":"Sage","css":"#8A967F"}]},{"key":"ctr","name":"Countertops","cat":"int","ch":[{"id":"white","name":"White Quartz","css":"#EEEBE4"},{"id":"marble","name":"Marble-look Quartz","css":"linear-gradient(120deg,#ECE9E3 0 40%,#b9b6ae 44%,#ECE9E3 48% 70%,#c9c6be 74%,#ECE9E3 78%)"},{"id":"black","name":"Black Granite","css":"linear-gradient(120deg,#17181A 0 55%,#4a4a48 60%,#17181A 65%)"},{"id":"grey","name":"Concrete Gray","css":"#9A9894"}]},{"key":"bsp","name":"Backsplash","cat":"int","ch":[{"id":"slab","name":"Marble slab","css":"linear-gradient(120deg,#ECE9E3 0 40%,#b9b6ae 44%,#ECE9E3 48% 70%,#c9c6be 74%,#ECE9E3 78%)"},{"id":"subway","name":"White Subway","css":"repeating-linear-gradient(0deg,#F0EEE8 0 8px,#cfccc4 8px 9px)"},{"id":"green","name":"Sage Zellige","css":"repeating-linear-gradient(0deg,#8FA08A 0 8px,#6f806a 8px 9px)"},{"id":"grey","name":"Gray Subway","css":"repeating-linear-gradient(0deg,#B4B6B4 0 8px,#8f918f 8px 9px)"},{"id":"black","name":"Black Subway","css":"repeating-linear-gradient(0deg,#232426 0 8px,#6A6A68 8px 9px)"}]},{"key":"vcab","name":"Bathroom vanities","cat":"int","ch":[{"id":"oak","name":"Natural oak","css":"linear-gradient(135deg,#B9905E,#A67C4C)"},{"id":"white","name":"White","css":"#EFEDE7"},{"id":"navy","name":"Navy","css":"#27364B"},{"id":"sage","name":"Sage","css":"#8A967F"},{"id":"black","name":"Black","css":"#1F2022"},{"id":"walnut","name":"Walnut","css":"linear-gradient(135deg,#6A4A32,#573B27)"}]},{"key":"shw","name":"Shower walls","cat":"int","ch":[{"id":"slab","name":"Marble slab","css":"linear-gradient(120deg,#ECE9E3 0 40%,#b9b6ae 44%,#ECE9E3 48% 70%,#c9c6be 74%,#ECE9E3 78%)"},{"id":"subway","name":"White subway tile","css":"repeating-linear-gradient(0deg,#F0EEE8 0 8px,#cfccc4 8px 9px)"},{"id":"zel","name":"Sage zellige","css":"repeating-linear-gradient(0deg,#8FA08A 0 8px,#6f806a 8px 9px)"},{"id":"slate","name":"Charcoal slate","css":"repeating-linear-gradient(90deg,#3B3D40 0 14px,#1F2022 14px 15px)"},{"id":"trav","name":"Warm limestone","css":"repeating-linear-gradient(90deg,#D9CDB8 0 14px,#B8AC96 14px 15px)"}],"note":"The primary bath's wet room, and the wall behind the tub in each upstairs bath."},{"key":"btl","name":"Bath floor tile","cat":"int","ch":[{"id":"w","name":"White porcelain","css":"repeating-linear-gradient(90deg,#EDEBE6 0 12px,#B9B6AE 12px 13px)"},{"id":"g","name":"Warm gray","css":"repeating-linear-gradient(90deg,#B9B2A6 0 12px,#8C867B 12px 13px)"},{"id":"m","name":"Marble look","css":"linear-gradient(120deg,#ECEAE6 0 40%,#c4c1bb 46%,#ECEAE6 52%)"},{"id":"c","name":"Charcoal slate","css":"repeating-linear-gradient(90deg,#4A4C4F 0 12px,#2C2D2F 12px 13px)"}]},{"key":"hwc","name":"Hardware and faucets","cat":"int","ch":[{"id":"brass","name":"Satin Brass","css":"#B08A4A"},{"id":"black","name":"Matte Black","css":"#101011"},{"id":"nickel","name":"Satin Nickel","css":"#9A9A98"}]}],"defaults":{"sid":"white","trm":"white","fas":"white","win":"black","fdc":"wood","gdc":"white","rof":"char","prf":"metal","lk":"1","g":"f","b":"u","pl":"n","fd":"g","pst":"cedar","clg":"c","cr":"n","fp":"stone","bi":"c","sf":"o","sr":"k","idc":"white","ids":"s","lof":"o","hwc":"brass","wal":"alab","cab":"white","isl":"navy","ctr":"marble","bsp":"slab","vcab":"oak","shw":"slab","btl":"w","flr":"oak","cpt":"oat","uf":"c"},"gallery":[],"looks":[{"cat":"ext","name":"Modern farmhouse (as drawn)","set":{}},{"cat":"ext","name":"Midnight and copper","set":{"sid":"navy","prf":"copper","gdc":"wood","rof":"onyx"}},{"cat":"ext","name":"Sage cottage","set":{"sid":"sage","trm":"cream","fas":"bronze","win":"white","rof":"wood","fdc":"navy","fd":"c"}},{"cat":"ext","name":"Charcoal modern","set":{"sid":"iron","trm":"black","fas":"black","rof":"onyx","gdc":"black","fdc":"black","fd":"s"}},{"cat":"ext","name":"Coastal blue","set":{"sid":"blue","win":"white","rof":"slate","fdc":"navy"}},{"cat":"ext","name":"Warm greige","set":{"sid":"greige","trm":"cream","fas":"bronze","win":"bronze","rof":"brown","gdc":"bronze","fd":"p"}},{"cat":"ext","name":"Black barn","set":{"sid":"black","trm":"black","fas":"black","gdc":"wood","prf":"copper","fd":"p"}},{"cat":"int","name":"Light and warm (as shown)","set":{}},{"cat":"int","name":"Warm oak","set":{"isl":"oak","ctr":"marble","flr":"honey","wal":"greige","clg":"o","cr":"f","ids":"c"}},{"cat":"int","name":"Deep and moody","set":{"cab":"navy","bsp":"grey","flr":"walnut","wal":"grey","idc":"black","clg":"b","cr":"c","vcab":"navy","shw":"slate"}},{"cat":"int","name":"Scandinavian","set":{"isl":"white","flr":"white","wal":"white","hwc":"black","clg":"t","ids":"f","vcab":"white","shw":"subway"}},{"cat":"int","name":"Sage kitchen","set":{"cab":"sage","isl":"oak","bsp":"green","vcab":"sage","shw":"zel"}},{"cat":"int","name":"Black and white","set":{"cab":"black","isl":"white","ctr":"marble","flr":"grey","wal":"white","hwc":"nickel","idc":"black","ids":"c","cr":"c","vcab":"black","shw":"subway"}},{"cat":"int","name":"Everything added","set":{"cr":"c","clg":"o","bi":"s","ids":"c","b":"f"}}],"plan_lead":"Each level seen from straight above, with everything over it taken away. Furniture is illustrative.","plans":[{"id":"main_f","name":"Main level","note":"2,144 sq ft: living, dining and kitchen in the core, the primary suite in its own wing, a three-car garage","svg":"<img src=\"img/plan-main_f.jpg\" alt=\"Main level, seen from above with the levels over it taken away\" style=\"width:100%;height:auto;display:block;border-radius:10px\">"},{"id":"main_s","name":"Main level, side-entry garage","note":"The same rooms; the garage wing is re-proportioned and entered from a motor court at the side","svg":"<img src=\"img/plan-main_s.jpg\" alt=\"Main level, side-entry garage, seen from above with the levels over it taken away\" style=\"width:100%;height:auto;display:block;border-radius:10px\">"},{"id":"upper","name":"Upstairs","note":"1,224 sq ft: three bedrooms, two baths, the loft and a laundry; the office loft sits over the primary closet","svg":"<img src=\"img/plan-upper.jpg\" alt=\"Upstairs, seen from above with the levels over it taken away\" style=\"width:100%;height:auto;display:block;border-radius:10px\">"},{"id":"look","name":"Lookout","note":"224 sq ft: the lookout room on the roof, windows on all four sides","svg":"<img src=\"img/plan-look.jpg\" alt=\"Lookout, seen from above with the levels over it taken away\" style=\"width:100%;height:auto;display:block;border-radius:10px\">"},{"id":"bsmt_u","name":"Lower level","note":"Unfinished, as drawn: a safe room, mechanical space and rough-ins for a bath and a wet bar","svg":"<img src=\"img/plan-bsmt_u.jpg\" alt=\"Lower level, seen from above with the levels over it taken away\" style=\"width:100%;height:auto;display:block;border-radius:10px\">"},{"id":"bsmt_f","name":"Lower level, finished","note":"Lounge, bar, gym, bath and sauna, with the safe room, storage and mechanical space","svg":"<img src=\"img/plan-bsmt_f.jpg\" alt=\"Lower level, finished, seen from above with the levels over it taken away\" style=\"width:100%;height:auto;display:block;border-radius:10px\">"}],"lot":null,"specs":[{"h":"The home","items":["3,760 sq ft finished: 2,144 on the main level, 1,224 upstairs, a 168 sq ft office loft and the 224 sq ft lookout room","Four bedrooms and three and a half baths; the primary suite is on the main level in its own wing","The primary suite: a 20 x 20 bedroom with a door to the covered deck, a spa bath and a walk-in closet, about 800 sq ft in all","Three-car garage in a wing of its own, front entry or side entry","Core 34 x 36 ft, two stories; the garage wing 32 x 24 ft and the primary wing 20 x 46 ft are one story"]},{"h":"Rooms","items":["Main level: foyer, dining room, living room with a fireplace and a 12 ft slider to the covered deck, kitchen with a prep kitchen and pantry, mudroom, powder room, laundry","Upstairs: three bedrooms, two baths, a loft, a second laundry","An office loft over the primary closet, reached by its own spiral stair","The lookout room: 14 x 16 ft on the roof, windows on all four sides"]},{"h":"Heights and roof","items":["10 ft ceilings on the main level","Gable roofs with standing-seam accents over the porch, the lookout and the garage doors","Covered 16 x 14 ft deck off the living room; covered front porch on timber posts"]},{"h":"Inside finish","items":["Living room ceiling: nine coffers centred on the fireplace with a ring chandelier, painted or in oak; timber beams or a tray ceiling instead","Doors: 8 ft on the main level and 6 ft 8 in. upstairs, in three panel styles, every opening cased with a cap over the head","Crown molding as a choice on every level, classic or craftsman","Front door in four designs under a transom: glass over a panel, steel-look glass, craftsman with sidelights, or panelled","Baths: vanity cabinets and shower walls chosen apart from the kitchen","The loft over the primary closet as a home office, a library or a retreat"]},{"h":"Outside","items":["Board-and-batten siding with trim boards at corners and openings","Black-framed windows with grids","A full basement under the core"]}],"foot":["The pictures and the design studio on this page are computer renderings of a 3D model of the plan. Furniture, planting and the land around the house are illustrative; the plan is not drawn on a particular lot.","Finishes offered in the design studio are examples for planning, not a builder's price list. A builder's plan set and contract govern."],"tour":null,"model3d":{"src":"3d/","poster":"img/hero-day.jpg"}};

diff --git a/lookout/studio.js b/lookout/studio.js
@@ -176,7 +176,7 @@
           if (done) done[pi] = 1;
           var dr = T[q2] - A[q2], dg = T[q2 + 1] - A[q2 + 1], db = T[q2 + 2] - A[q2 + 2];
           if (mi > 249) {                                /* fully this part: where the finish really differs, the new layer itself; where it does not (glass in a window whose frame changed), the picture stays as it is */
-            var dm = Math.max(Math.abs(dr), Math.abs(dg), Math.abs(db)), w = dm <= 4 ? 0 : dm >= 14 ? 1 : (dm - 4) / 10, kk = 1; w = w * w * (3 - 2 * w);
+            var dm = Math.max(Math.abs(dr), Math.abs(dg), Math.abs(db)), w = d.whole ? 1 : dm <= 4 ? 0 : dm >= 14 ? 1 : (dm - 4) / 10, kk = 1; w = w * w * (3 - 2 * w);
             if (PM && PM[pi] && ref.indexOf("@") < 0) {     /* inside a changed shape's rectangle the light itself may have changed (a wall gone): the new layer takes the light of the picture as it now is */
               kk = (0.3 * out[o2] + 0.59 * out[o2 + 1] + 0.11 * out[o2 + 2] + 6) / (0.3 * A[q2] + 0.59 * A[q2 + 1] + 0.11 * A[q2 + 2] + 6); kk = Math.max(0.6, Math.min(1.6, kk));
               var ka = Math.abs(kk - 1), ks = ka <= 0.025 ? 0 : ka >= 0.07 ? 1 : (ka - 0.025) / 0.045; kk = 1 + (kk - 1) * ks;
